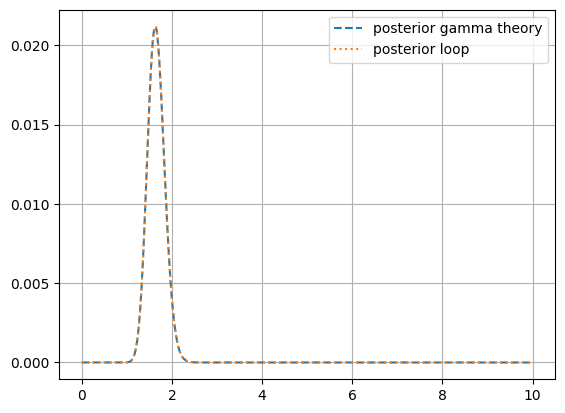
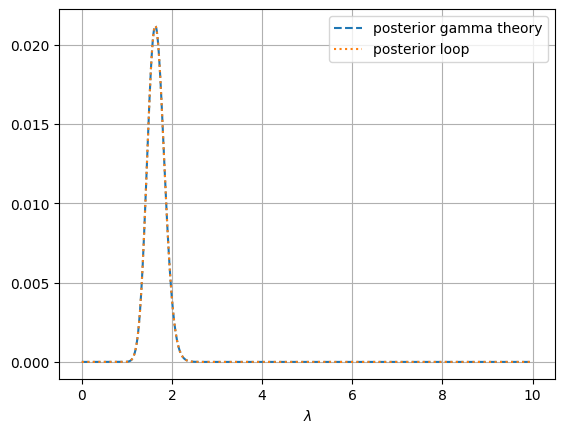
10h49 30/07/2023

diff --git a/main.tex b/main.tex
@@ -398,6 +398,7 @@ prior_gamma = prior_gamma / np.sum(prior_gamma)
 
         \begin{python}
 plt.plot(lamdas, prior_gamma, label="gamma prior")
+plt.xlabel("$\lambda$")
 plt.legend()
 plt.grid()
 plt.show()
@@ -444,6 +445,7 @@ posterior_loop_gamma_deg_geq_3 = compute_posterior_loop(prior=prior_gamma, lamda
 def plot_posterior_comparison(lamdas, pos_theory, pos_loop, prior_type="uniform"):
     plt.plot(lamdas, pos_theory, label="posterior {} theory".format(prior_type), linestyle="dashed")
     plt.plot(lamdas, pos_loop, label="posterior loop", linestyle="dotted")
+    plt.xlabel("$\lambda$")
     plt.grid()
     plt.legend()
     plt.show()
@@ -653,6 +655,7 @@ normal_approx_of_gamma_distribution = normal_pdf_vector(x, 90/30, np.sqrt(90/(30
             
 plt.plot(x, gamma_distribution, label="gamma distribution", linestyle="solid")
 plt.plot(x, normal_approx_of_gamma_distribution, label="normal approximation of gamma distribution", linestyle="dashed")
+plt.xlabel("$\lambda$")
 plt.legend()
 plt.grid()
 plt.show()
@@ -1098,6 +1101,7 @@ normal_approx_deg_less_3 = normal_pdf_vector(x, (child_total_deg_less_3 + 1)/n_d
             
 plt.plot(x, normal_approx_deg_geq_3, label="posterior of deg $\geq$ 3, prior uniform", linestyle="solid")
 plt.plot(x, normal_approx_deg_less_3, label="posterior of deg < 3, prior uniform", linestyle="solid")
+plt.xlabel("$\lambda$")
 plt.legend()
 plt.grid()
 plt.show()
@@ -1173,6 +1177,7 @@ normal_approx_deg_less_3 = normal_pdf_vector(x, (child_total_deg_less_3 + alpha)
             
 plt.plot(x, normal_approx_deg_geq_3, label="posterior of deg $\geq$ 3, prior gamma", linestyle="solid")
 plt.plot(x, normal_approx_deg_less_3, label="posterior of deg < 3, prior gamma", linestyle="solid")
+plt.xlabel("$\lambda$")
 plt.legend()
 plt.grid()
 plt.show()
